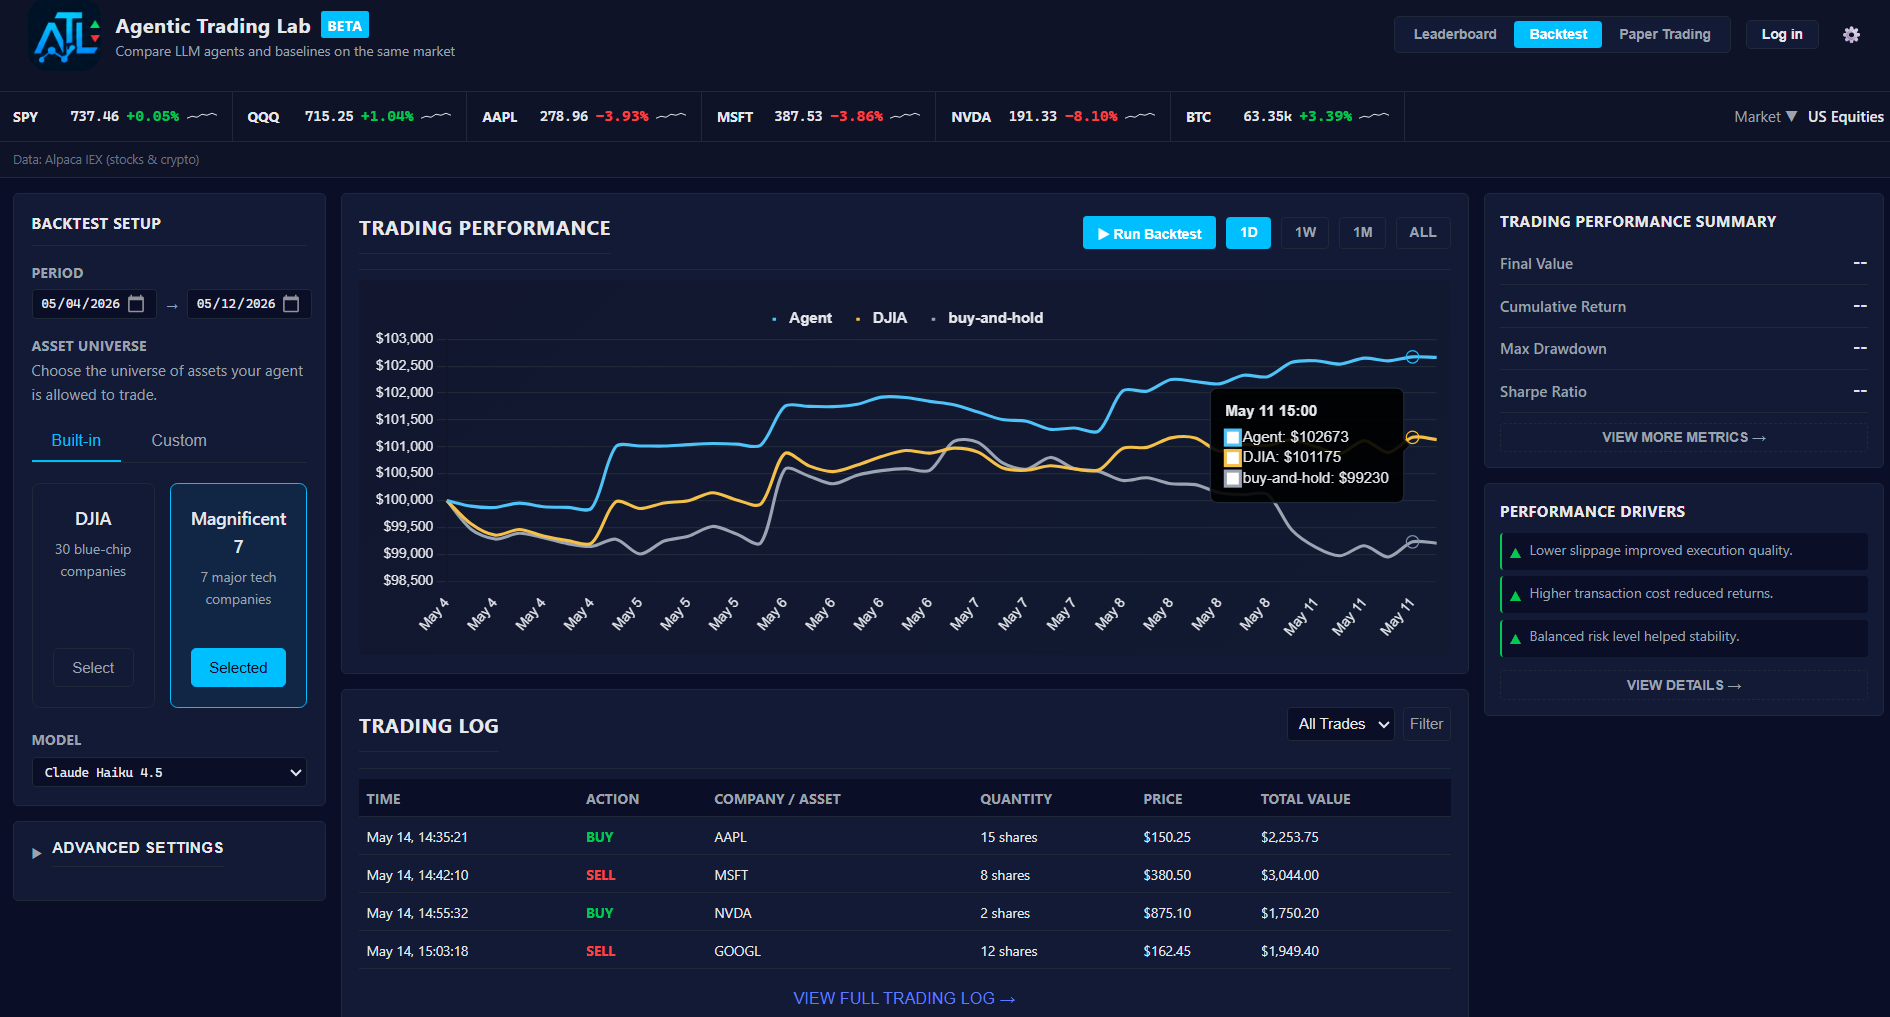
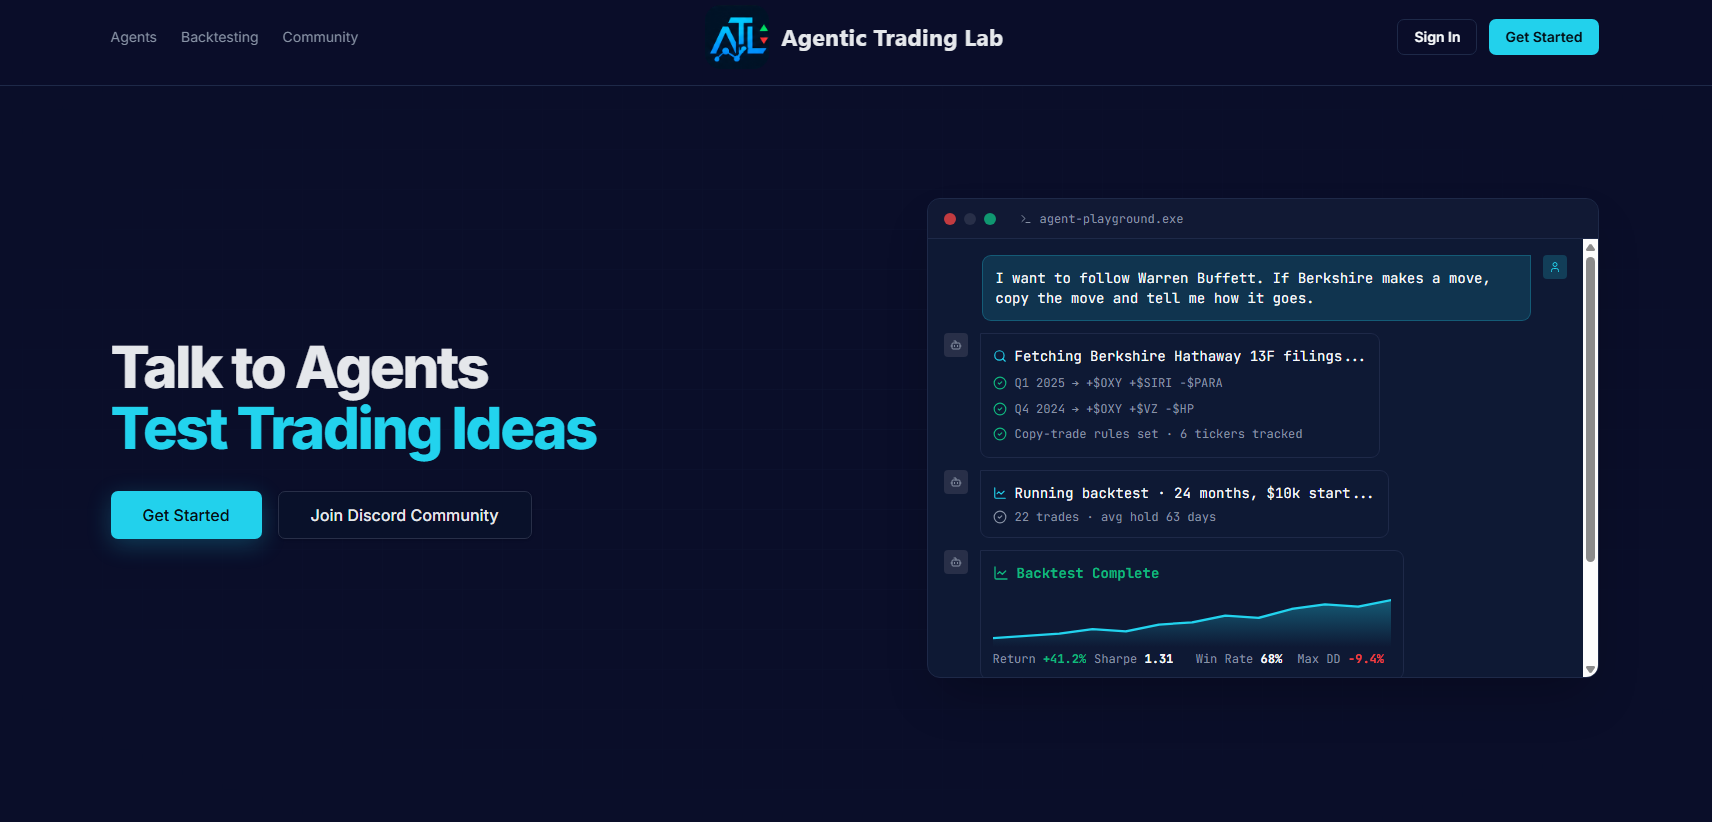
Merge pull request #70 from Allan-Feng/main
Edit website snapshot in readme

Pull request: Edit website snapshot in readme
Wrap the logo and website screenshot with links to the live demo, replace snapshot_updated.png with an updated snapshot.png.

diff --git a/README.md b/README.md
@@ -1,6 +1,8 @@
 
 <div align="center">
-  <img src="./dashboard/frontend/images/agentic_trading_lab_white.png" alt="Agentic Trading Lab" width="400">
+  <a href="https://agentic-trading-lab.vercel.app/">
+    <img src="./dashboard/frontend/images/agentic_trading_lab_white.png" alt="Agentic Trading Lab" width="400">
+  </a>
 </div>
 
 <p align="center">
@@ -23,7 +25,9 @@
 Turn trading ideas into traceable experiments: prototype agents, run backtests and paper-trading simulations, inspect reasoning and decision logs, benchmark against market baselines, and study how agents behave under realistic financial constraints.
 
 <div align="center">
-  <img src="./dashboard/frontend/images/snapshot_updated.png" alt="Website Snapshot" width="720">
+  <a href="https://agentic-trading-lab.vercel.app/">
+    <img src="./dashboard/frontend/images/snapshot.png" alt="Website Snapshot" width="720">
+  </a>
 </div>
 
 ## Outline